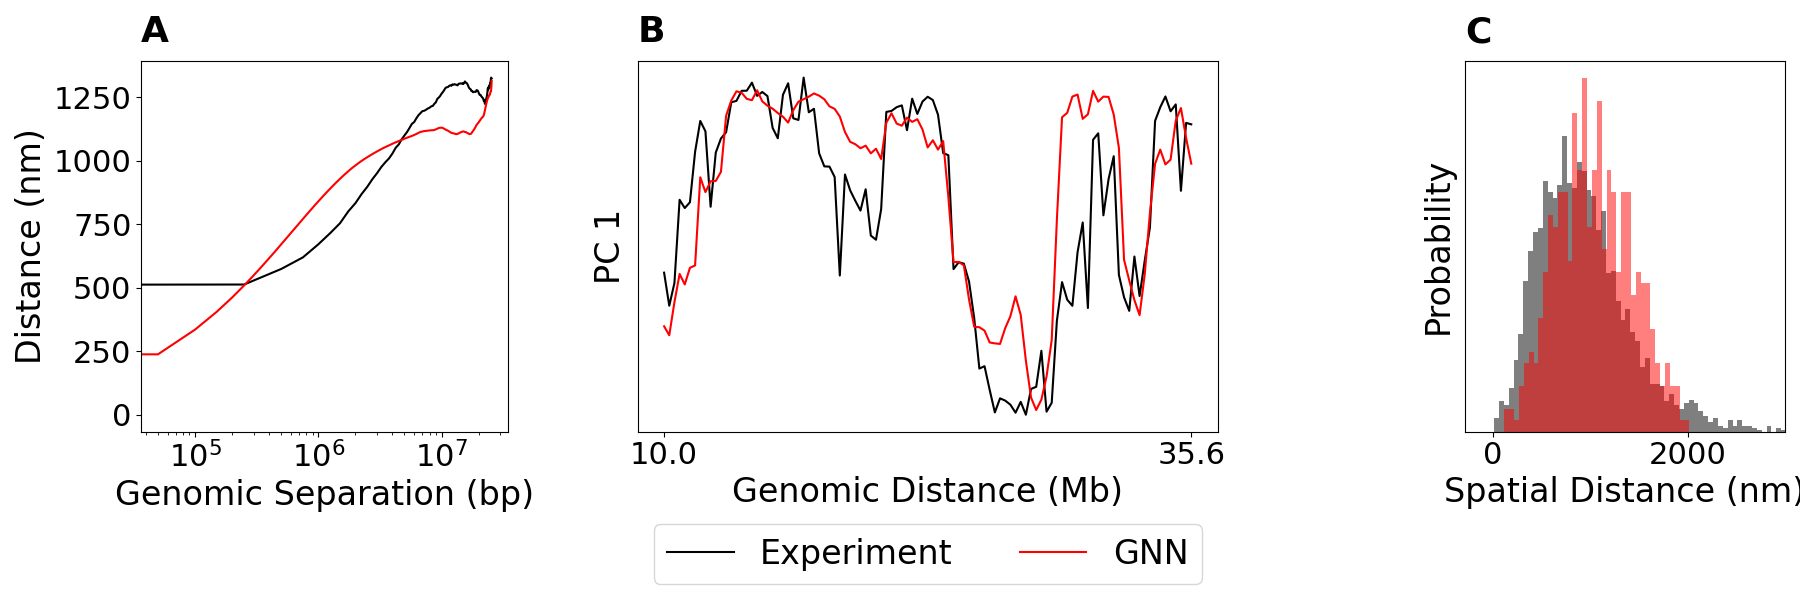
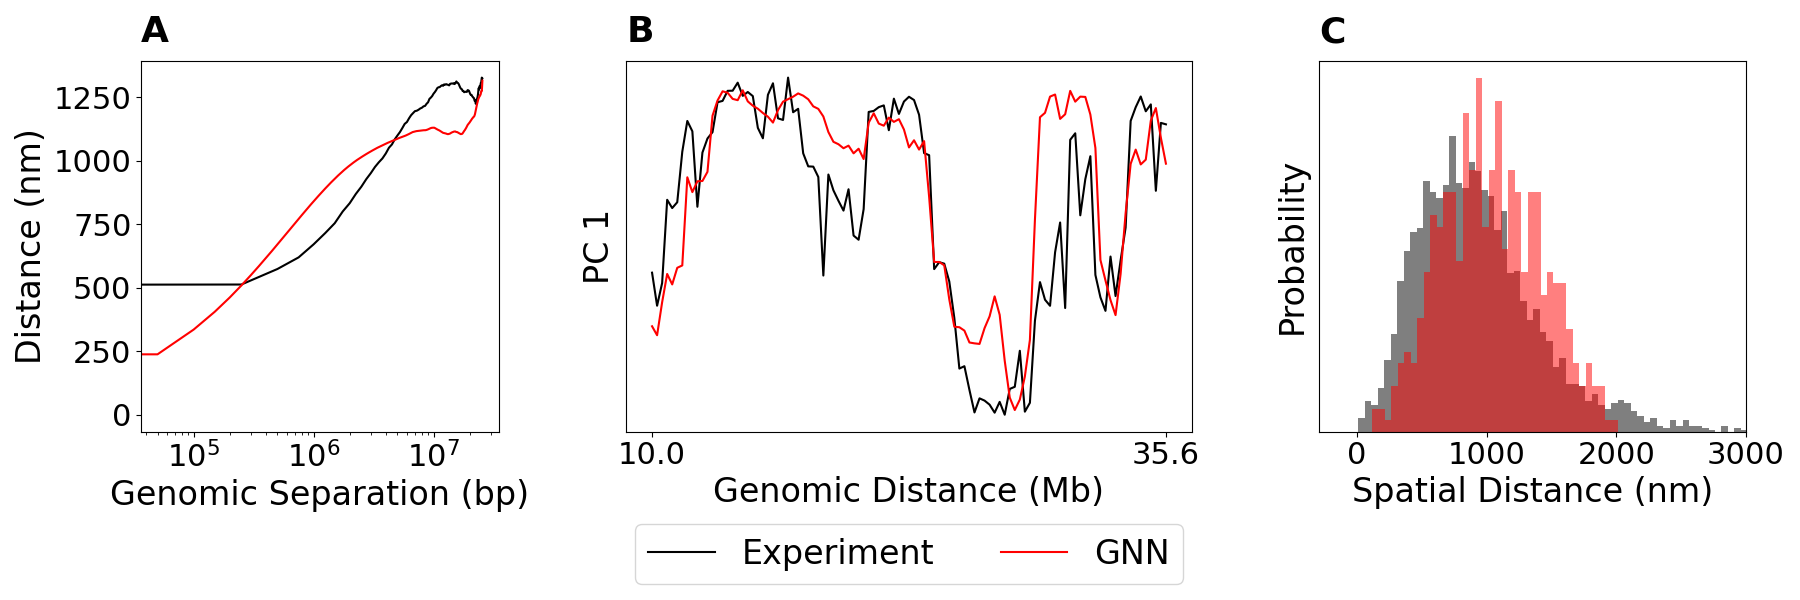
image

diff --git a/scripts/distances_Su2020/figures.py b/scripts/distances_Su2020/figures.py
@@ -327,7 +327,7 @@ def new_figure(sample, GNN_ID, bl=140, phi=0.03):
     plt.figure(figsize=(18, 6))
     ax3 = plt.subplot(1, 24, (1, 6))
     ax4 = plt.subplot(1, 24, (8, 16)) # pc
-    ax5 = plt.subplot(1, 12, (10, 12)) # dist a-b
+    ax5 = plt.subplot(1, 24, (18, 24)) # dist a-b
 
     # plot scaling
     m = len(D)
@@ -394,8 +394,8 @@ def new_figure(sample, GNN_ID, bl=140, phi=0.03):
                 size=letter_fontsize, weight='bold')
 
 
-    plt.subplots_adjust(bottom=0.275, top = 0.9, left = 0.15, right = 0.925,
-                    hspace = 0.25, wspace = 0.25)
+    plt.subplots_adjust(bottom=0.275, top = 0.9, left = 0.15, right = 0.95,
+                    hspace = 0.25, wspace = 0.45)
     plt.tight_layout()
     plt.savefig('/home/erschultz/TICG-chromatin/figures/distances.png')
     plt.close()
